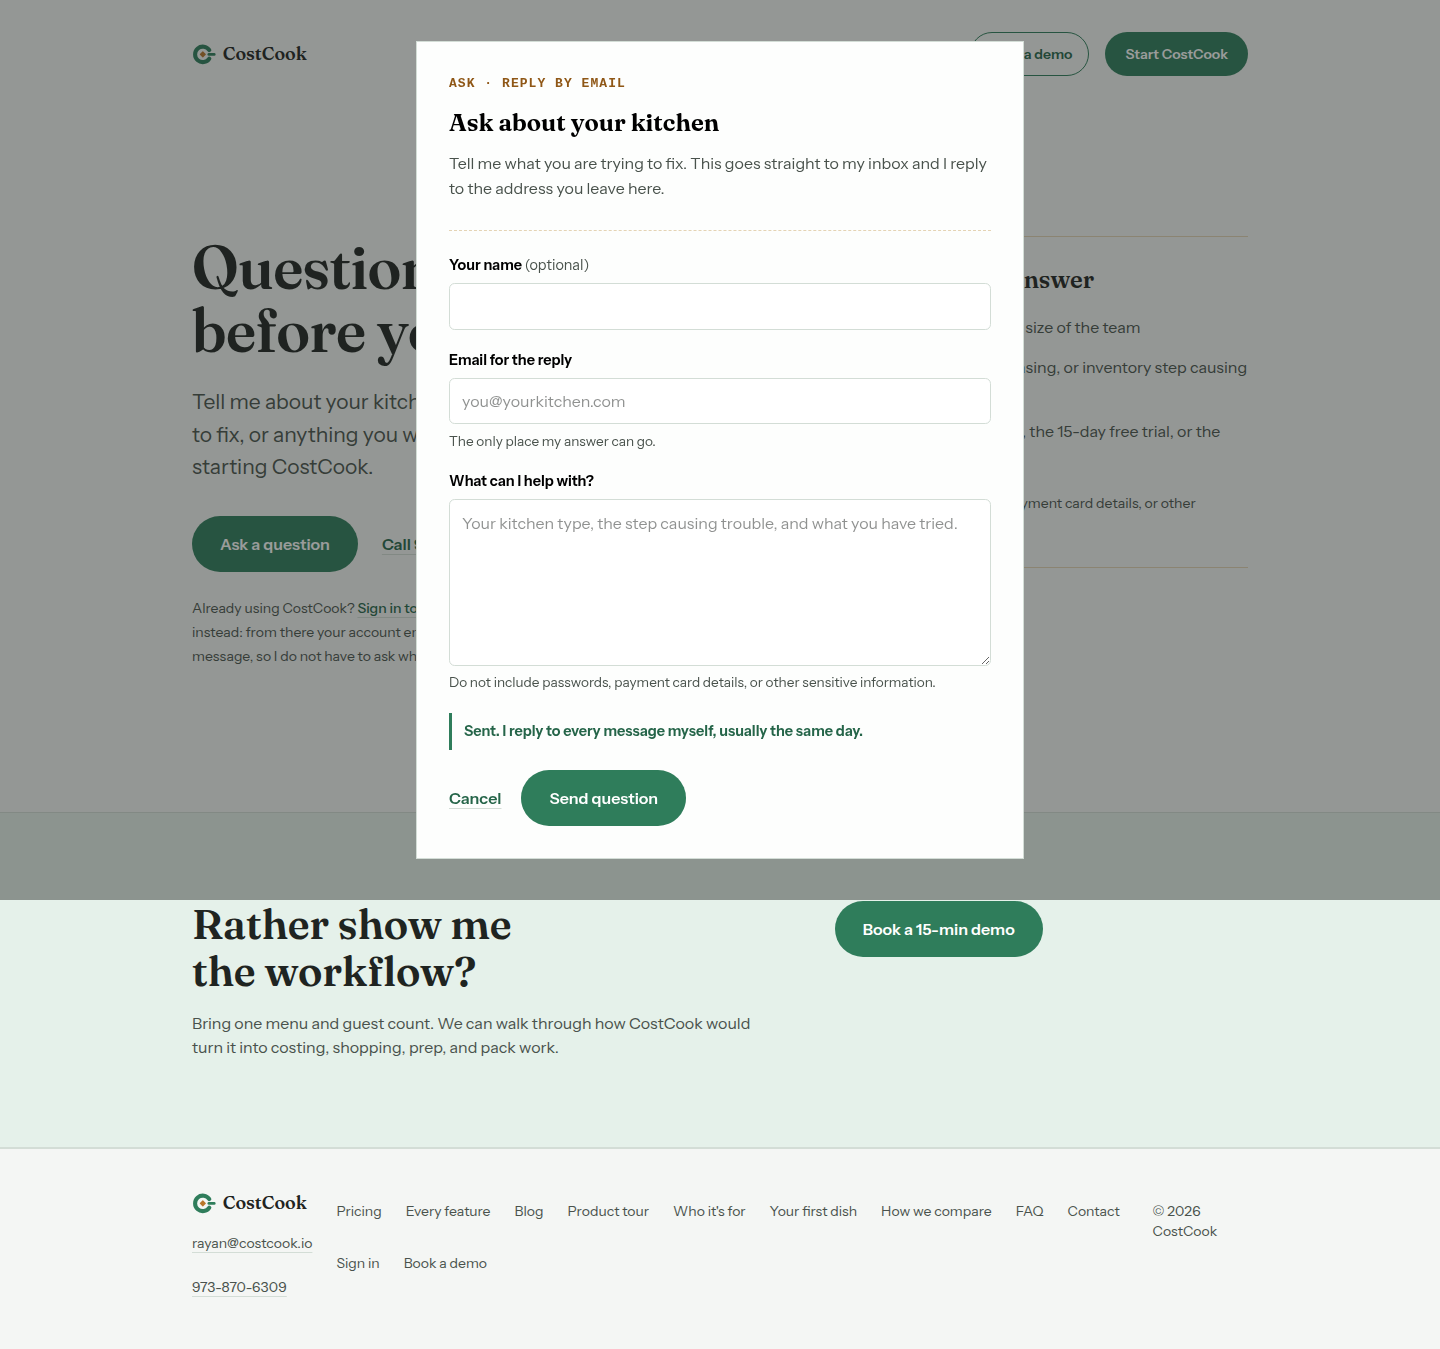
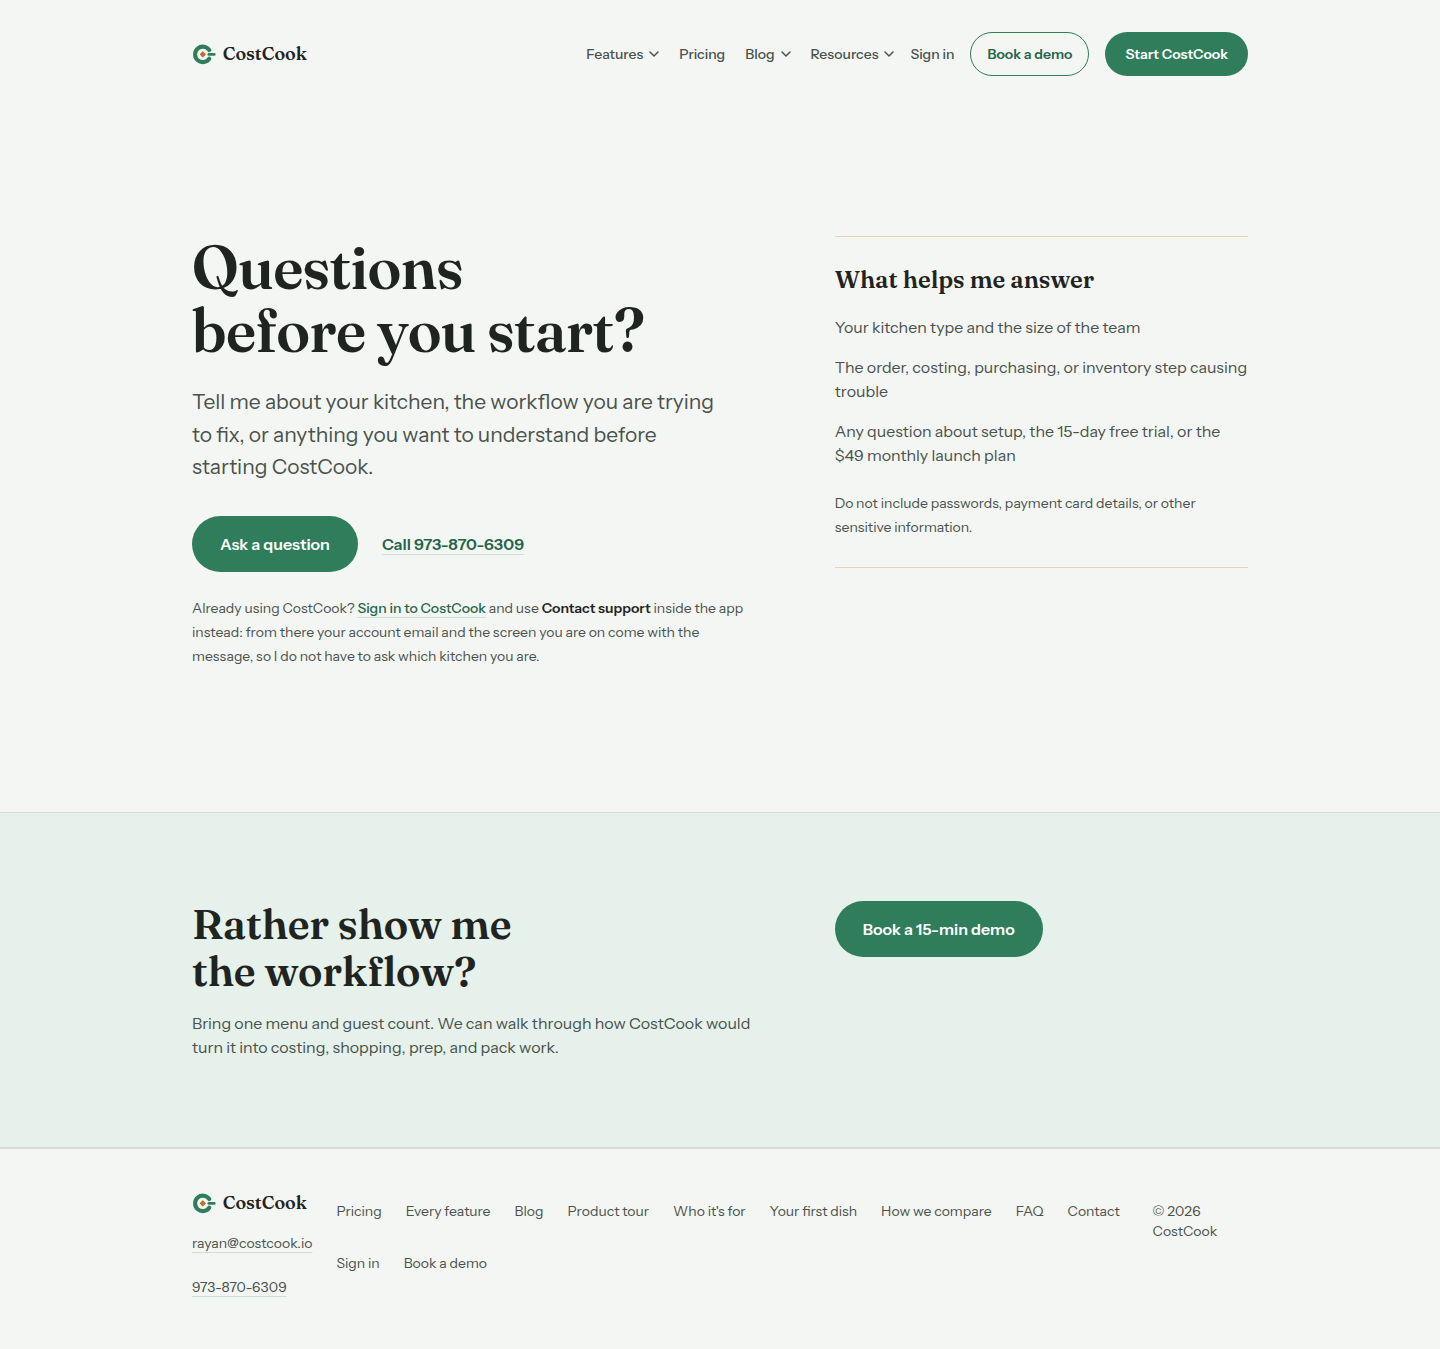
fix(contact): let the modal finish, then leave, and keep the proof (#69)
Reported: "once the email is sent why does this modal is still open?"

It cleared the form, kept the box open, and appended a line of status text
under an empty form. Nothing said the job was done, so the natural reading
was that it had not been. A scene that has finished has to leave, or the
reader cannot tell it finished.

The ending is a sequence now, not a sentence:

  editing -> submitting -> acknowledged -> leaving -> next
                       \-> error -> editing

  submitting    the button holds its place and says "Sending…"
  acknowledged  the form leaves, a tick draws, and the confirmation takes
                the same space: "Message sent to <their address>."
  leaving       240ms, transform and opacity only
  next          the box is gone, focus is back on the button that opened
                it, and the page keeps "Sent. I reply to <their address>,
                usually the same day."

THE HOLD IS 2200MS AND IT IS NOT THE ANIMATION. Acknowledgement time is
reading time; the exit is 240ms because the reading already happened.
Tying the two together is how a confirmation ends up unreadable or slow.

THE RECEIPT IS THE POINT. If the box closed and left nothing behind, the
visitor would be looking at the same "Ask a question" button they pressed a
second ago with no evidence anything happened, and the honest reading of
that is still "it did not send". The receipt is written when the send
[…]

diff --git a/docs/stories/contact-support.story.md b/docs/stories/contact-support.story.md
@@ -54,6 +54,39 @@
 | 12 Break Into Three | The draft is kept, the failure is said out loud, and the email address is offered as the way out. |
 | 13–15 Finale / Final Image | "Sent. I reply to every message myself, usually the same day." The reader is still on the page they were reading, question asked. |
 
+### Revision, 2026-09-06 — the ending did not land
+
+The first version stopped at beat 12. On success it cleared the form, left the
+modal open, and appended a line of status text under an empty box. The reader's
+own words: *"once the email is sent why does this modal is still open?"* They
+were right, and the fault is a story fault before it is a motion fault: a scene
+that has finished has to leave, or the reader cannot tell it finished.
+
+The ending is now a sequence rather than a sentence, following the
+`editing → submitting → acknowledged → leaving → next` model:
+
+| Phase | What the reader sees | Copy |
+|---|---|---|
+| `submitting` | The button holds its place and says what it is doing | "Sending…" |
+| `acknowledged` | The form leaves, a tick draws, and the confirmation takes the same space | "Message sent to *their address*." / "Closing this box. Nothing else to do." |
+| `leaving` | 240ms out, transform and opacity only | — |
+| `next` | The box is gone, focus is back on the button, and the page keeps the proof | "Sent. I reply to *their address*, usually the same day." |
+
+**The hold is 2,200ms and it is not the animation.** Acknowledgement time is
+reading time; the exit is 240ms because the reading already happened. Tying the
+two together is how a confirmation ends up either unreadable or slow.
+
+**The receipt is the point, not a nicety.** If the modal closed and left
+nothing, the reader would be looking at the same "Ask a question" button they
+pressed a second ago with no evidence anything happened, and the honest reading
+of that is "it did not send". The final image of this story is not the modal
+closing. It is the line on the page naming the address the answer will go to.
+
+**The tick never carries the meaning.** It is decoration over a sentence that
+already says the same thing, and under `prefers-reduced-motion` it is simply
+drawn, the dialog does not move, and every state and the focus order are
+unchanged.
+
 ### Step 4 — From Beats to Scenes
 
 Four surfaces, one beat-group each:
